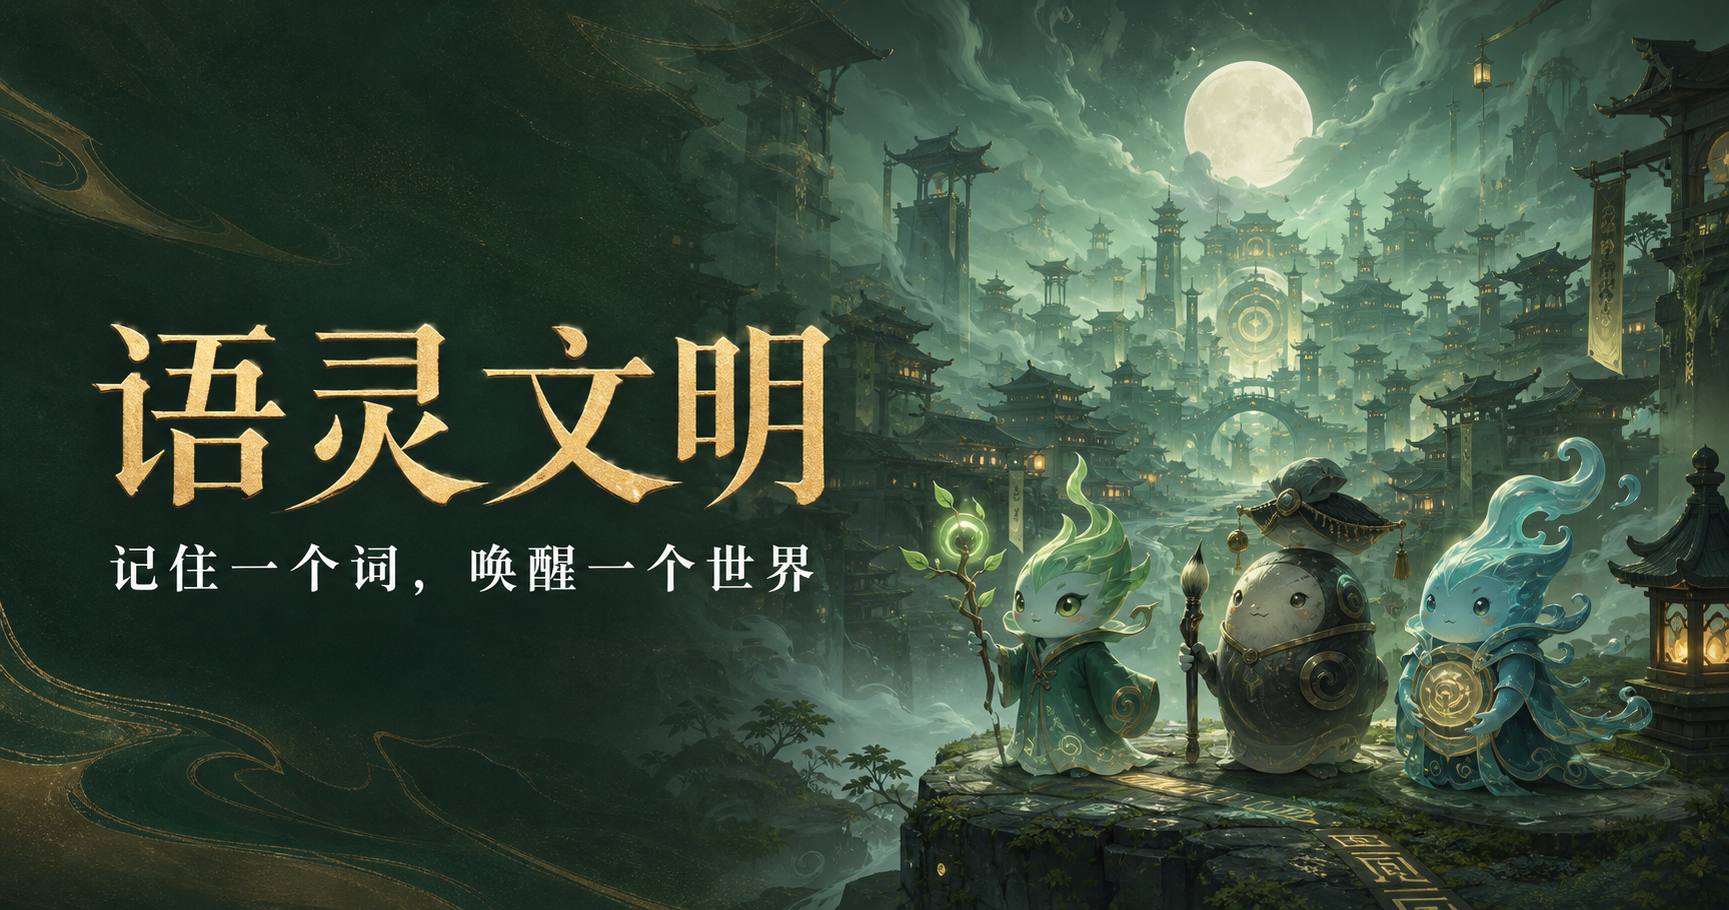
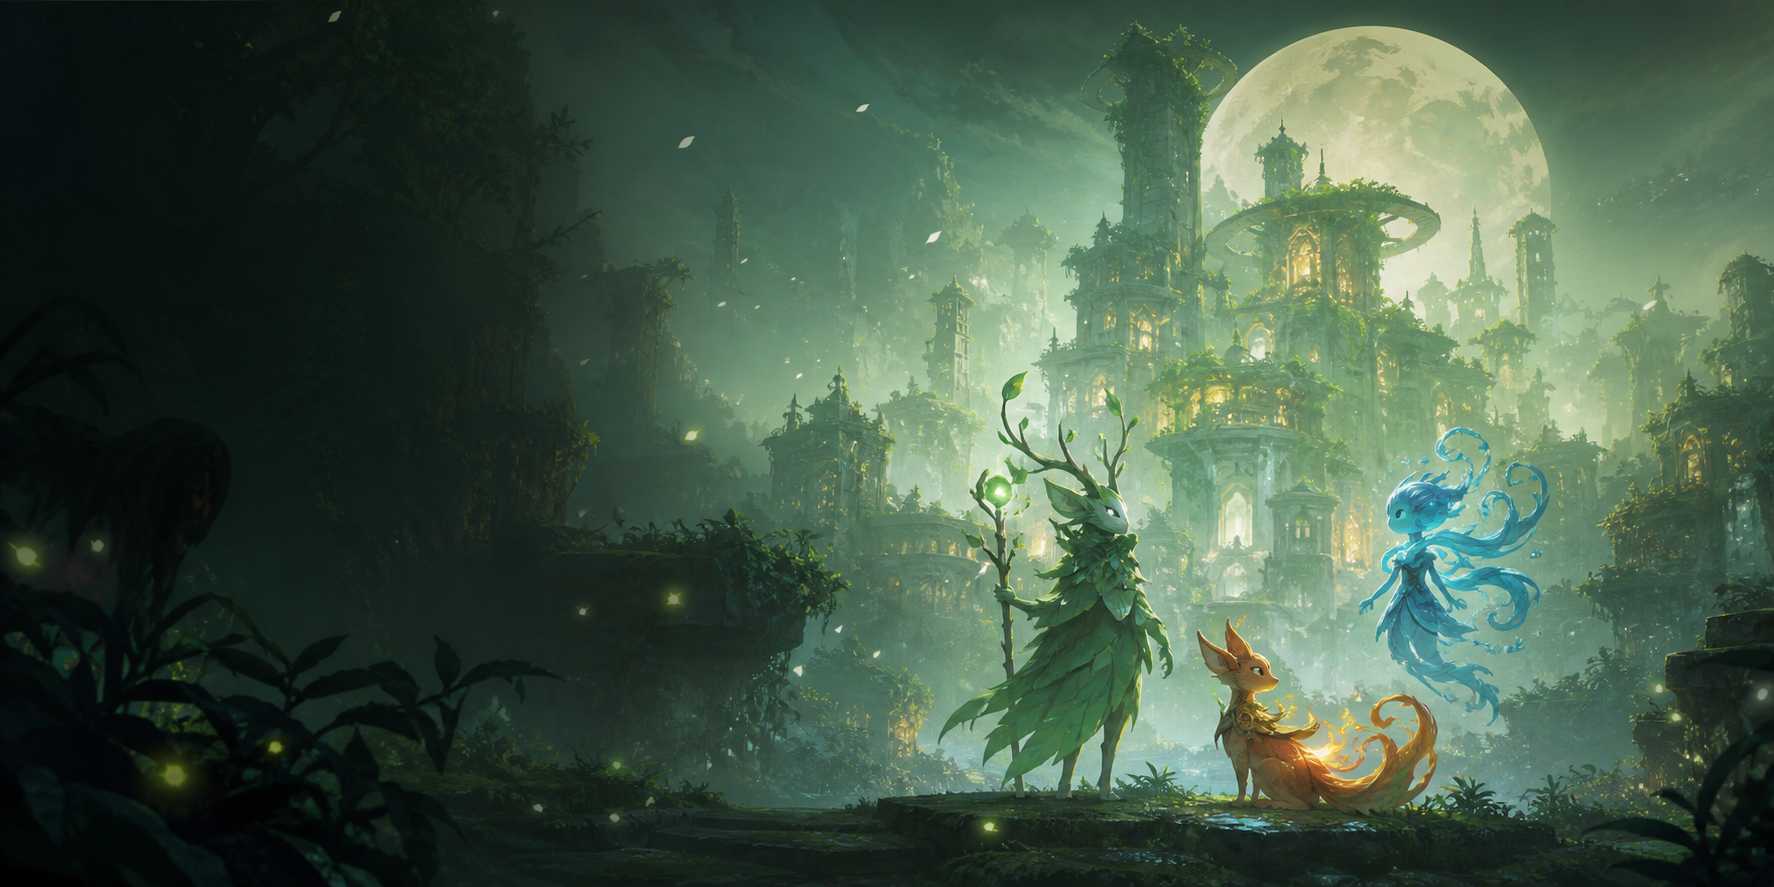
Add interactive battle and unify artwork

diff --git a/app/globals.css b/app/globals.css
@@ -63,7 +63,15 @@ button { font:inherit; }
 
 .modal-backdrop { position:fixed; z-index:60; inset:0; display:grid; place-items:center; padding:20px; background:rgba(9,28,23,.68); backdrop-filter:blur(9px); animation:fadeIn .18s ease; }.modal { width:min(470px,100%); position:relative; padding:34px; border-radius:28px; background:#f6f5ed; text-align:center; box-shadow:0 40px 100px rgba(0,0,0,.32); animation:modalIn .25s ease; }.close { position:absolute; right:17px; top:14px; border:0; background:transparent; color:#809089; font-size:25px; cursor:pointer; }.modal-kicker { color:#198160; font-size:10px; font-weight:800; letter-spacing:.13em; }.word-orb { width:70px; height:70px; margin:25px auto 13px; display:grid; place-items:center; border-radius:50%; background:#d9eadf; color:#1b805f; font-size:27px; box-shadow:0 0 0 12px rgba(44,142,105,.08); }.learn-modal h2 { margin:0; font-family:serif; font-size:46px; }.learn-modal>p { color:var(--muted); font-size:12px; }.learn-modal .phonetic { margin:3px 0 25px; color:#1a805f; }.choice-list { display:grid; gap:9px; margin-top:22px; }.choice-list button { border:1px solid #d3d9d4; border-radius:13px; padding:12px; background:white; color:#284a3f; cursor:pointer; }.choice-list button:hover { border-color:#258464; background:#e6f0e9; }
 .battle-modal { width:min(650px,100%); background:linear-gradient(135deg,#183e34,#2c5d4d); color:white; }.battle-modal h2 { margin:8px 0 30px; font-family:serif; font-size:30px; }.battle-field { display:grid; grid-template-columns:1fr 90px 1fr; align-items:center; gap:12px; }.battle-team { display:flex; justify-content:center; gap:8px; }.battle-team i { width:58px; height:70px; display:grid; place-items:center; border-radius:22px 22px 17px 17px; background:#dce9db; color:#1d6c51; font-family:serif; font-size:24px; font-style:normal; box-shadow:0 12px 20px rgba(0,0,0,.18); animation:bob 1s ease-in-out infinite alternate; }.battle-team i:nth-child(2){animation-delay:.2s}.battle-team i:nth-child(3){animation-delay:.4s}.battle-team.enemy i { background:#544a58; color:#e0c8d9; }.battle-clash { font-family:serif; font-size:24px; }.battle-clash span { display:block; margin-top:7px; font-family:sans-serif; font-size:8px; color:#e5d69d; }.battle-loading { height:6px; margin:34px 0 12px; border-radius:99px; background:rgba(255,255,255,.12); overflow:hidden; }.battle-loading i { display:block; height:100%; width:45%; border-radius:inherit; background:#e7d995; animation:loading 1.4s ease-in-out infinite; }.battle-modal>p { color:rgba(255,255,255,.6); font-size:10px; }
+.interactive-battle { width:min(760px,100%); padding:24px; overflow:hidden; background:radial-gradient(circle at 75% 10%,rgba(202,216,157,.18),transparent 26%),linear-gradient(145deg,#142f29,#285545 64%,#193a31); }
+.battle-head { display:flex; justify-content:space-between; align-items:flex-start; text-align:left; }.battle-head .modal-kicker { color:#d9cc92; }.battle-head h2 { margin:5px 0 17px; font-size:24px; }.knowledge-bonus { padding:7px 10px; border:1px solid rgba(228,215,160,.24); border-radius:99px; color:#dfd49f; background:rgba(220,207,151,.08); font-size:9px; }
+.hp-row { display:grid; grid-template-columns:82px 1fr 64px; align-items:center; gap:10px; color:rgba(255,255,255,.65); font-size:9px; text-align:left; }.hp-row>div { height:8px; overflow:hidden; border-radius:99px; background:rgba(255,255,255,.12); box-shadow:inset 0 1px 3px rgba(0,0,0,.2); }.hp-row i { display:block; height:100%; border-radius:inherit; transition:width .45s ease; }.hp-row b { text-align:right; font-size:9px; }.enemy-hp i { background:linear-gradient(90deg,#a94e45,#d47761); }.ally-hp i { background:linear-gradient(90deg,#2baa78,#78ca90); }
+.battle-stage { min-height:250px; position:relative; display:grid; grid-template-columns:1fr 64px 1fr; align-items:center; margin:12px 0; overflow:hidden; border-radius:20px; background:linear-gradient(rgba(8,29,24,.14),rgba(8,29,24,.62)),url('/world-awakening.png') 62% 58%/cover; box-shadow:inset 0 -35px 55px rgba(4,22,18,.5); isolation:isolate; }.battle-stage:after { content:""; position:absolute; left:0; right:0; bottom:33px; height:2px; background:rgba(224,219,173,.15); z-index:-1; }
+.combat-line { display:flex; align-items:flex-end; justify-content:center; gap:8px; transition:transform .3s ease; }.combat-line.ally-line.attacking { animation:allyStrike .72s ease; }.combat-line.enemy-line.attacking { animation:enemyStrike .65s ease; }.combatant { position:relative; text-align:center; filter:drop-shadow(0 12px 8px rgba(0,0,0,.3)); }.combatant i { width:58px; height:76px; display:grid; place-items:center; border:2px solid rgba(255,255,255,.38); border-radius:46% 46% 40% 40%; background:linear-gradient(160deg,#dce9db,#6da783); color:#18563f; font-family:serif; font-size:23px; font-style:normal; box-shadow:inset 0 -13px rgba(18,74,53,.16); }.combatant small { display:block; margin-top:6px; color:rgba(255,255,255,.72); font-size:8px; }.spirit-b i { background:linear-gradient(160deg,#f1d5a4,#d07642); color:#833d1e; }.spirit-c i { background:linear-gradient(160deg,#d8eff0,#62a9c3); color:#245e77; }.enemy-line .combatant i { width:65px; height:85px; background:linear-gradient(160deg,#66596d,#272330); color:#ead5e7; border-color:rgba(229,206,227,.28); box-shadow:inset 0 -16px rgba(13,9,17,.28); }.foe-b i { width:74px!important; height:96px!important; font-size:27px!important; }
+.turn-core { position:relative; color:rgba(255,255,255,.48); font-family:serif; font-size:11px; }.turn-core:before { content:""; display:block; width:36px; height:36px; margin:0 auto 5px; border:1px solid rgba(232,219,164,.32); border-radius:50%; background:radial-gradient(circle,#dccb86 0 8%,transparent 10%); box-shadow:0 0 25px rgba(228,213,149,.24); }.damage-pop { position:absolute; left:50%; top:-55px; color:#f3d195; font-family:sans-serif; font-size:25px; text-shadow:0 3px 8px #341a12; animation:damageUp .65s ease forwards; }.battle-flash { position:absolute; inset:0; pointer-events:none; background:radial-gradient(circle at 62% 47%,rgba(255,235,155,.65),transparent 18%); mix-blend-mode:screen; animation:flashOut .55s ease forwards; }
+.battle-log { min-height:36px; display:grid; place-items:center; margin:10px 0; border-radius:10px; background:rgba(0,0,0,.16); color:#dce5dc; font-size:10px; }.skill-bar { display:grid; grid-template-columns:repeat(3,1fr); gap:8px; }.skill-bar button { min-height:57px; display:flex; align-items:center; gap:9px; padding:9px 11px; border:1px solid rgba(255,255,255,.13); border-radius:13px; background:rgba(255,255,255,.08); color:white; text-align:left; cursor:pointer; transition:.18s ease; }.skill-bar button:hover:not(:disabled) { transform:translateY(-2px); background:rgba(255,255,255,.14); border-color:rgba(224,210,151,.35); }.skill-bar button:disabled { opacity:.42; cursor:not-allowed; }.skill-bar button>i { flex:0 0 34px; width:34px; height:34px; display:grid; place-items:center; border-radius:10px; background:#dce9db; color:#1c674d; font-family:serif; font-style:normal; }.skill-bar button:nth-child(2)>i { background:#eed2a3;color:#914520 }.skill-bar button:nth-child(3)>i { background:#d2e8eb;color:#2b6b83 }.skill-bar span,.skill-bar b,.skill-bar small { display:block; }.skill-bar b { font-size:10px; }.skill-bar small { margin-top:3px; color:rgba(255,255,255,.46); font-size:8px; }.claim-victory { width:100%; min-height:54px; border:0; border-radius:13px; background:#e6d698; color:#21493b; font-weight:900; cursor:pointer; animation:victoryPulse 1.4s ease infinite; }
+@keyframes allyStrike { 45%{transform:translateX(48px) scale(1.04)} 70%{transform:translateX(34px)} } @keyframes enemyStrike { 45%{transform:translateX(-45px) scale(1.04)} 70%{transform:translateX(-30px)} } @keyframes damageUp { from{opacity:0;transform:translate(-50%,8px) scale(.7)} 35%{opacity:1;transform:translate(-50%,-5px) scale(1.15)} to{opacity:0;transform:translate(-50%,-25px)} } @keyframes flashOut { from{opacity:1} to{opacity:0} } @keyframes victoryPulse { 50%{box-shadow:0 0 0 7px rgba(229,214,151,.11)} }
 .victory-mark { width:82px; height:82px; display:grid; place-items:center; margin:-72px auto 20px; border:7px solid #f6f5ed; border-radius:50%; background:#1e7d5f; color:#eddda0; font-family:serif; font-size:35px; box-shadow:0 14px 30px rgba(29,100,75,.3); }.result-modal h2 { margin:7px 0; font-family:serif; font-size:30px; }.result-modal>p { color:var(--muted); font-size:11px; line-height:1.7; }.result-rewards { display:grid; grid-template-columns:1fr 1fr; gap:9px; margin:22px 0; }.result-rewards span { padding:13px; border-radius:13px; background:#e4ece4; color:var(--muted); font-size:9px; }.result-rewards b { display:block; color:#1d7458; font-size:20px; }
 .toast { position:fixed; z-index:100; left:50%; top:22px; transform:translateX(-50%); padding:11px 17px; border-radius:12px; background:#173f34; color:white; font-size:11px; box-shadow:0 12px 30px rgba(13,46,36,.25); animation:toastIn .2s ease; }
 @keyframes fadeIn { from { opacity:0; } } @keyframes modalIn { from { opacity:0; transform:translateY(12px) scale(.98); } } @keyframes bob { to { transform:translateY(-7px); } } @keyframes loading { from { transform:translateX(-110%); } to { transform:translateX(230%); } } @keyframes toastIn { from { opacity:0; transform:translate(-50%,-10px); } }
-@media (max-width:760px) { .topbar { height:64px; padding:0 16px; }.resources>span { display:none; }.world-panel { margin:0 12px 15px; min-height:415px; border-radius:24px; }.world-panel.with-art { background-position:62% center; }.world-copy { padding:78px 28px 35px; }.world-copy h1 { font-size:39px; }.world-copy p { max-width:260px; }.chapter-badge { right:15px; top:15px; }.content-grid { display:block; margin:0 12px; }.side-stack { margin-top:12px; }.spirit-list { grid-template-columns:1fr; }.spirit { min-height:92px; }.spirit-portrait { height:62px; }.bottom-nav { bottom:10px; }.game-shell { padding-bottom:98px; }.page-frame { margin:0 12px; }.page-heading { padding:25px 4px 20px; }.map-panel { min-height:540px; }.map-road { width:390px; height:400px; left:20px; top:95px; }.stage { width:60px; height:60px; }.stage b { top:64px; }.stage-1 { left:8%;top:72% }.stage-2 { left:19%;top:39% }.stage-3 { left:44%;top:61% }.stage-4 { left:60%;top:30% }.stage-5 { left:76%;top:58% }.stage-6 { left:82%;top:14% }.map-note { left:14px;top:14px }.learn-dashboard { grid-template-columns:1fr; gap:28px; padding:32px 22px; }.learn-ring { width:210px;height:210px;margin:auto }.rank-banner { padding:26px 24px }.rank-score b { font-size:35px }.opponent { grid-template-columns:42px 1fr auto }.opponent-power { display:none }.collection-layout { grid-template-columns:1fr }.collection-grid { grid-template-columns:1fr 1fr }.collection-card { min-height:180px }.collection-glyph { height:86px;font-size:48px }.detail-card { order:-1;min-height:390px }.battle-field { grid-template-columns:1fr 55px 1fr }.battle-team i { width:39px;height:56px;font-size:17px }.modal { padding:30px 22px }.mission-card { grid-template-columns:50px 1fr }.mission-card>b { display:none }.progress { grid-column:2 }.arena-card { padding:17px }.page-heading h1 { font-size:38px } }
+@media (max-width:760px) { .topbar { height:64px; padding:0 16px; }.resources>span { display:none; }.world-panel { margin:0 12px 15px; min-height:415px; border-radius:24px; }.world-panel.with-art { background-position:62% center; }.world-copy { padding:78px 28px 35px; }.world-copy h1 { font-size:39px; }.world-copy p { max-width:260px; }.chapter-badge { right:15px; top:15px; }.content-grid { display:block; margin:0 12px; }.side-stack { margin-top:12px; }.spirit-list { grid-template-columns:1fr; }.spirit { min-height:92px; }.spirit-portrait { height:62px; }.bottom-nav { bottom:10px; }.game-shell { padding-bottom:98px; }.page-frame { margin:0 12px; }.page-heading { padding:25px 4px 20px; }.map-panel { min-height:540px; }.map-road { width:390px; height:400px; left:20px; top:95px; }.stage { width:60px; height:60px; }.stage b { top:64px; }.stage-1 { left:8%;top:72% }.stage-2 { left:19%;top:39% }.stage-3 { left:44%;top:61% }.stage-4 { left:60%;top:30% }.stage-5 { left:76%;top:58% }.stage-6 { left:82%;top:14% }.map-note { left:14px;top:14px }.learn-dashboard { grid-template-columns:1fr; gap:28px; padding:32px 22px; }.learn-ring { width:210px;height:210px;margin:auto }.rank-banner { padding:26px 24px }.rank-score b { font-size:35px }.opponent { grid-template-columns:42px 1fr auto }.opponent-power { display:none }.collection-layout { grid-template-columns:1fr }.collection-grid { grid-template-columns:1fr 1fr }.collection-card { min-height:180px }.collection-glyph { height:86px;font-size:48px }.detail-card { order:-1;min-height:390px }.battle-field { grid-template-columns:1fr 55px 1fr }.battle-team i { width:39px;height:56px;font-size:17px }.modal { padding:30px 22px }.mission-card { grid-template-columns:50px 1fr }.mission-card>b { display:none }.progress { grid-column:2 }.arena-card { padding:17px }.page-heading h1 { font-size:38px }.interactive-battle { padding:18px 13px }.battle-head h2 { font-size:19px }.knowledge-bonus { font-size:8px }.battle-stage { min-height:225px;grid-template-columns:1fr 40px 1fr }.combat-line { gap:3px }.combatant i { width:41px;height:59px;font-size:17px }.enemy-line .combatant i { width:45px;height:64px }.foe-b i { width:50px!important;height:72px!important;font-size:19px!important }.combatant small { font-size:7px }.skill-bar { gap:4px }.skill-bar button { padding:7px 5px;gap:4px }.skill-bar button>i { width:27px;height:30px;flex-basis:27px }.skill-bar small { display:none }.hp-row { grid-template-columns:65px 1fr 54px }.turn-core { font-size:8px } }

diff --git a/app/page.tsx b/app/page.tsx
@@ -56,7 +56,6 @@ export default function Home() {
 
   function openBattle(mode:'stage'|'arena', title:string) {
     setBattleMode(mode); setBattleTitle(title); setModal('battle');
-    window.setTimeout(() => setModal('result'), 1500);
   }
 
   function upgradeSpirit() {
@@ -77,7 +76,7 @@ export default function Home() {
       <BottomNav view={view} onChange={setView} />
 
       {modal === 'learn' && <LearnModal item={words[wordIndex]} index={wordIndex} onAnswer={answer} onClose={() => setModal(null)} />}
-      {modal === 'battle' && <BattleModal title={battleTitle} mode={battleMode} />}
+      {modal === 'battle' && <BattleModal title={battleTitle} mode={battleMode} onWin={() => setModal('result')} />}
       {modal === 'result' && <ResultModal mode={battleMode} title={battleTitle} onClose={() => { setModal(null); showToast(battleMode === 'arena' ? '竞技积分 +18' : '遗迹净化度 +12%'); }} />}
       {toast && <div className="toast">{toast}</div>}
     </main>
@@ -152,8 +151,44 @@ function LearnModal({item,index,onAnswer,onClose}:{item:typeof words[0];index:nu
   return <div className="modal-backdrop"><section className="modal learn-modal"><button className="close" onClick={onClose}>×</button><span className="modal-kicker">记忆唤醒 · {index+1} / 3</span><div className="word-orb">✦</div><h2>{item.word}</h2><p className="phonetic">{item.phonetic}</p><p>选择它在这段文明残页中的含义</p><div className="choice-list">{item.choices.map(c=><button key={c} onClick={()=>onAnswer(c)}>{c}</button>)}</div></section></div>;
 }
 
-function BattleModal({title,mode}:{title:string;mode:'stage'|'arena'}) {
-  return <div className="modal-backdrop"><section className="modal battle-modal"><span className="modal-kicker">{mode==='arena'?'回响竞技':'遗迹战斗'}</span><h2>{title}</h2><div className="battle-field"><div className="battle-team ally"><i>芽</i><i>焰</i><i>澜</i></div><div className="battle-clash">VS<span>知识加成 +14%</span></div><div className="battle-team enemy"><i>?</i><i>雾</i><i>影</i></div></div><div className="battle-loading"><i /></div><p>语灵正在根据阵容与记忆质量自动作战…</p></section></div>;
+function BattleModal({title,mode,onWin}:{title:string;mode:'stage'|'arena';onWin:()=>void}) {
+  const [enemyHp,setEnemyHp]=useState(100);
+  const [allyHp,setAllyHp]=useState(100);
+  const [round,setRound]=useState(1);
+  const [busy,setBusy]=useState(false);
+  const [action,setAction]=useState('选择一只语灵释放技能');
+  const [attacker,setAttacker]=useState('');
+  const [damage,setDamage]=useState(0);
+  const skills=[
+    {id:'芽',name:'森罗重击',detail:'破甲 · 稳定',damage:32},
+    {id:'焰',name:'余烬连击',detail:'高伤 · 强攻',damage:42},
+    {id:'澜',name:'潮汐回响',detail:'治疗 · 辅助',damage:26},
+  ];
+
+  function cast(skill:typeof skills[0]) {
+    if(busy) return;
+    setBusy(true); setAttacker(skill.id); setDamage(skill.damage); setAction(`${skill.name}命中，造成 ${skill.damage} 点伤害`);
+    const nextEnemy=Math.max(0,enemyHp-skill.damage);
+    window.setTimeout(()=>setEnemyHp(nextEnemy),260);
+    if(skill.id==='澜') window.setTimeout(()=>setAllyHp(h=>Math.min(100,h+12)),320);
+    if(nextEnemy===0){ window.setTimeout(()=>{setAction('敌方回响消散，遗迹重新发出声音');setBusy(false)},720); return; }
+    window.setTimeout(()=>{ setAttacker('enemy'); setDamage(12+round*2); setAction(`敌方反击，队伍承受 ${12+round*2} 点伤害`); setAllyHp(h=>Math.max(0,h-(12+round*2))); },820);
+    window.setTimeout(()=>{ setRound(r=>r+1); setAttacker(''); setDamage(0); setAction('轮到你了，选择下一次行动'); setBusy(false); },1450);
+  }
+
+  return <div className="modal-backdrop"><section className="modal battle-modal interactive-battle">
+    <div className="battle-head"><div><span className="modal-kicker">{mode==='arena'?'回响竞技':'遗迹战斗'} · 第 {round} 回合</span><h2>{title}</h2></div><span className="knowledge-bonus">知识加成 +14%</span></div>
+    <div className="hp-row enemy-hp"><span>敌方回响</span><div><i style={{width:`${enemyHp}%`}} /></div><b>{enemyHp} / 100</b></div>
+    <div className={`battle-stage ${attacker?'is-acting':''}`}>
+      <div className={`combat-line ally-line ${attacker&&attacker!=='enemy'?'attacking':''}`}><div className="combatant spirit-a"><i>芽</i><small>芽语</small></div><div className="combatant spirit-b"><i>焰</i><small>烬尾</small></div><div className="combatant spirit-c"><i>澜</i><small>澜歌</small></div></div>
+      <div className="turn-core"><span>{busy?'交战':'你的回合'}</span>{damage>0&&<b className="damage-pop">-{damage}</b>}</div>
+      <div className={`combat-line enemy-line ${attacker==='enemy'?'attacking':''}`}><div className="combatant foe-a"><i>雾</i><small>蚀影</small></div><div className="combatant foe-b"><i>魇</i><small>守门人</small></div></div>
+      {busy&&<div className="battle-flash" />}
+    </div>
+    <div className="hp-row ally-hp"><span>我方小队</span><div><i style={{width:`${allyHp}%`}} /></div><b>{allyHp} / 100</b></div>
+    <div className="battle-log"><span>{action}</span></div>
+    {enemyHp>0?<div className="skill-bar">{skills.map(skill=><button key={skill.id} onClick={()=>cast(skill)} disabled={busy}><i>{skill.id}</i><span><b>{skill.name}</b><small>{skill.detail}</small></span></button>)}</div>:<button className="claim-victory" onClick={onWin}>完成战斗 · 查看结算</button>}
+  </section></div>;
 }
 
 function ResultModal({mode,title,onClose}:{mode:'stage'|'arena';title:string;onClose:()=>void}) {

diff --git a/app/layout.tsx b/app/layout.tsx
@@ -18,13 +18,13 @@ export const metadata: Metadata = {
   openGraph: {
     title: '语灵文明',
     description: '记住一个词，唤醒一个世界。',
-    images: [{ url: '/og.png', width: 1200, height: 630 }],
+    images: [{ url: 'https://word-spirit-civilization-demo.eeevan137.chatgpt.site/og.png', width: 1200, height: 630 }],
   },
   twitter: {
     card: 'summary_large_image',
     title: '语灵文明',
     description: '记住一个词，唤醒一个世界。',
-    images: ['/og.png'],
+    images: ['https://word-spirit-civilization-demo.eeevan137.chatgpt.site/og.png'],
   },
 };
 
